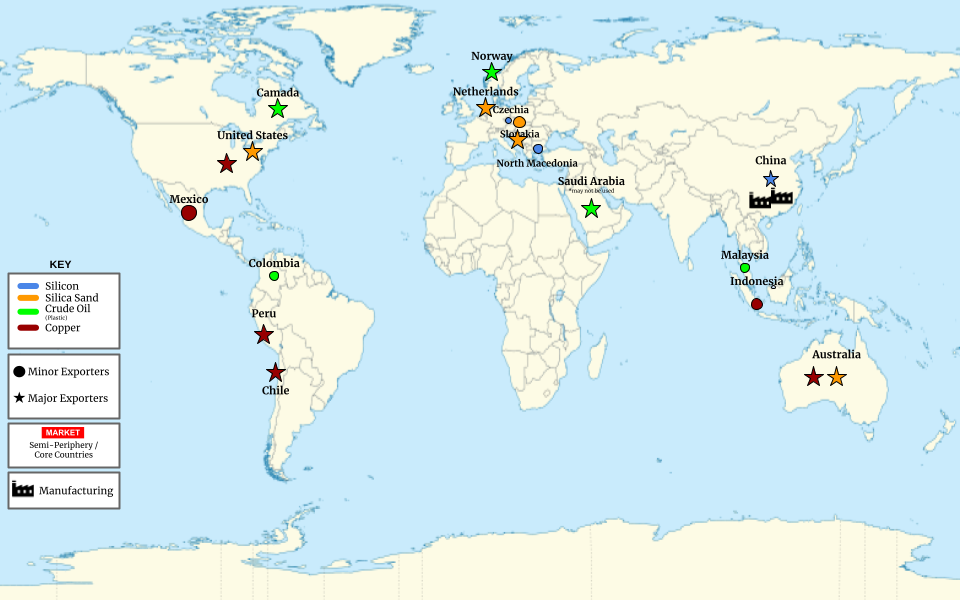
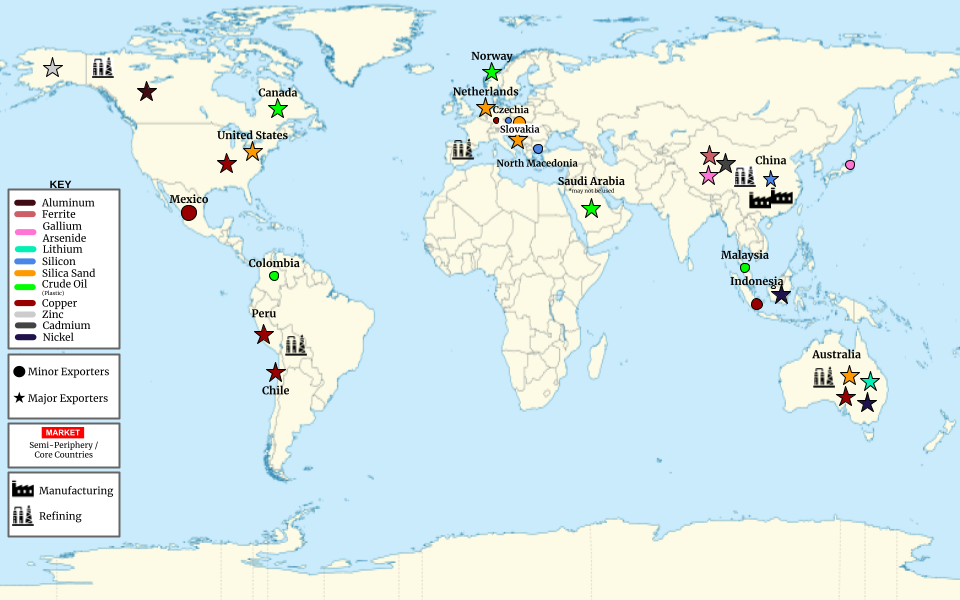
yes

diff --git a/sustainability.html b/sustainability.html
@@ -100,7 +100,7 @@
 				<div class="stepNumber one">3</div>
 				<div class="stepDetails">
 					<div class="stepTitle">Maximize our Commodities!</div>
-					<div class="stepDescription">Every resource we gain and use is valuable, and we believe from our roots that none should ever go to waste. Take a look at our <a href="img/CommodityChain.png">commodity chain</a> for the Smart Glasses, as well as our <a href="img/ManufacturingSites.png">manufacturing sites</a> for our four fundamental sources!</div>
+					<div class="stepDescription">Every resource we gain and use is valuable, and we believe from our roots that none should ever go to waste. Take a look at our <a href="img/CommodityChain.png">commodity chain</a> for the Smart Glasses, as well as our <a href="img/ManufacturingSites.png">manufacturing sites</a> for a majority of our products!</div>
 				</div>
 			</div>
 			<div class="step">

diff --git a/index.html b/index.html
@@ -99,6 +99,7 @@
 				<button class="standardButton" id="viewMoreArticles">See all</button>
 			</div>
 			<div class="galleryDisplay" id="about">
+				<img src="img/AsianCorpFull.png" class="logoIcon">
 				<h2>AsianCorp™</h2>
 				<blockquote>Innovation without a choice.</blockquote>
 				<p>Welcome to <b>AsianCorp™</b>, the place where technology really lives on. We seek to improve the daily lives of people all around the world, no matter who you are. We value our time and work into our products and our processes, and we believe you should learn from us too!</p>

diff --git a/css/main.css b/css/main.css
@@ -275,6 +275,14 @@ button.standardButton:hover {
 #about {
 	background: rgb(var(--secondary), 0.3);
 	width: 27.5%;
+	display: flex;
+	flex-direction: column;
+	justify-content: center;
+	align-items: center;
+}
+
+#about > h2{
+	margin: 0;
 }
 
 #newsArticles {
@@ -634,4 +642,8 @@ footer > div * {
 
 .pageCircle.selected {
 	background: white;
+}
+
+.logoIcon {
+	width: 150px;
 }
